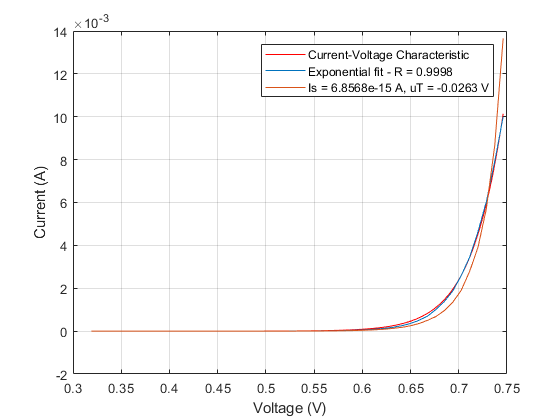
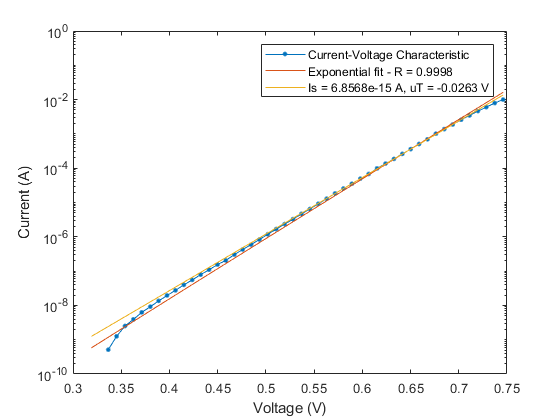
fixing Lab 2 plots

diff --git a/Lab 2/lab2.m b/Lab 2/lab2.m
@@ -3,10 +3,24 @@ load('Lab2Data.mat')
  spacingCurrent = logspace(-2, -9);
  spacingVoltage = linspace(0.7460, .3191);
 %% Voltage-Current Characteristic
-plot(Vin1b,Iin1b)
-xlabel('Current (A)')
-ylabel('Voltage (V)')
+
 t1 = exp(log(Is) + (Vin1b./uT));
+pa = polyfit(Vin1b,log(Iin1b),1);
+ya = polyval(pa,Vin1b);
+Is1 = exp(pa(1));
+uT1 = 1./pa(2);
+f = Is*exp(Vin1b./uT);
+f1 = Is1.*exp(Vin1b./uT);
+f2 = log(Is1) + -(1/uT).*Vin1b;
+semilogy(Vin1b,Iin1b,'Marker','.','MarkerSize',10)
+hold on
+semilogy(Vin1b,exp(ya))
+semilogy(Vin1b,f)
+%semilogy(Vin1b,exp(f2),'--')
+ylabel('Current (A)')
+xlabel('Voltage (V)')
+legend( 'Current-Voltage Characteristic', 'Exponential fit - R = 0.9998 ','Is = 6.8568e-15 A, uT = -0.0263 V', 'Location', 'NorthEast' );
+
 %%
 fit1(Vin1b, Iin1b,g)
 
@@ -26,7 +40,7 @@ g = ((1/m).*Vin1a) + b;
 % plot(Vin1a,g,'*')
 legend('Experimental','Is = 3.0681e-16, uT = -0.0307')
 xlabel('Voltage (V)')
-ylabel('Log of Current')
+ylabel('Current (A)')
 
 
 %% Semi-log of Voltage-current, current-voltage, and theoretical
@@ -38,12 +52,12 @@ Is = exp(b)
 f = Is*exp(-Vin1a./uT);
 g = (m.*Vin1a) + b;
 
-semilogy(Vin1a,Iin1a)
+semilogy(Vin1a,Iin1a,'Marker','.','MarkerSize',10)
 hold on
-semilogy(Vin1b,Iin1b)
+semilogy(Vin1b,Iin1b,'Marker','.','MarkerSize',10)
 semilogy(Vin1a,exp(g))
-xlabel('Current (A)')
-ylabel('Voltage (V)')
+ylabel('Current (A)')
+xlabel('Voltage (V)')
 legend('Current-Voltage Characteristic','Voltage-Current Characteristic','Is = 6.8568e-15 A, uT = 0.0623 V')
 
 %% loglog
@@ -58,10 +72,10 @@ ylabel('Incremental Diode Resistance (Ohms)')
  %% Exp. 2
 
 figure()
-plot(Vin2_100,Vout2_100);
+plot(Vin2_100,Vout2_100,'Marker','.','MarkerSize',10);
 hold on
-plot(Vin2_1000,Vout2_1000);
-plot(Vin2_10k,Vout2_10k);
+plot(Vin2_1000,Vout2_1000,'Marker','.','MarkerSize',10);
+plot(Vin2_10k,Vout2_10k,'Marker','.','MarkerSize',10);
 legend('100','1000','10000')
 
 

diff --git a/Lab 4/plot_set_up_exp2_exp3.m b/Lab 4/plot_set_up_exp2_exp3.m
@@ -2,22 +2,22 @@ load('') % .mat file
 %%
 clf
 
-loglog( , ,'Marker','.','MarkerSize',12) % Ix1, Iz1, Marker stuff - I found this looks pretty good
+loglog(Ix250 ,Iz250 ,'Marker','.','MarkerSize',12) % Ix1, Iz1, Marker stuff - I found this looks pretty good
 hold on
-loglog( , ,'Marker','.','MarkerSize',12) % Ix2, Iz2, Marker stuff - I found this looks pretty good
-loglog( , ,'Marker','.','MarkerSize',12) % Ix3, Iz3, Marker stuff - I found this looks pretty good
+loglog(Ix25k ,Iz25k ,'Marker','.','MarkerSize',12) % Ix2, Iz2, Marker stuff - I found this looks pretty good
+loglog(Ix2k ,Iz2k ,'Marker','.','MarkerSize',12) % Ix3, Iz3, Marker stuff - I found this looks pretty good
 xlabel('Log of Ix (A)')
 ylabel('Log of Iz (A)')
 
-legend('','','') % name them, probably something to do with each value of Iy
+legend('250','25k','2k') % name them, probably something to do with each value of Iy
 
 %%
 clf
 
-loglog( , ,'Marker','.','MarkerSize',12) % Iy1, Iz1, Marker stuff - I found this looks pretty good
+loglog(Ix250Si ,Iz250Si ,'Marker','.','MarkerSize',12) % Iy1, Iz1, Marker stuff - I found this looks pretty good
 hold on
-loglog( , ,'Marker','.','MarkerSize',12) % Iy2, Iz2, Marker stuff - I found this looks pretty good
-loglog( , ,'Marker','.','MarkerSize',12) % Iy3, Iz3, Marker stuff - I found this looks pretty good
+loglog(Ix25kSi ,Iz25kSi ,'Marker','.','MarkerSize',12) % Iy2, Iz2, Marker stuff - I found this looks pretty good
+loglog(Ix2kSi , Iz2kSi,'Marker','.','MarkerSize',12) % Iy3, Iz3, Marker stuff - I found this looks pretty good
 xlabel('Log of Iy (A)')
 ylabel('Log of Iz (A)')
 

diff --git a/Lab 2/lab2_Sabrina.m b/Lab 2/lab2_Sabrina.m
@@ -4,10 +4,10 @@ p1 = polyfit(Vin2_100(70:90),Vout2_100(70:90),1); %V1 is the x axis, I1 is the y
 y1 = polyval(p1,Vin2_100); % generates y values using the coefficents from polyfit
 
 figure()
-plot(Vin2_100,Vout2_100);
+plot(Vin2_100,Vout2_100,'Marker','.','MarkerSize',8);
 hold on
-plot(Vin2_1000,Vout2_1000);
-plot(Vin2_10k,Vout2_10k);
+plot(Vin2_1000,Vout2_1000,'Marker','.','MarkerSize',8);
+plot(Vin2_10k,Vout2_10k,'Marker','.','MarkerSize',8);
 plot(Vin2_100,y1, 'k--');
 legend('100 Ohm Resistor','1k Ohm Resistor','10k Ohm Resistor','Best fit line (m = 1.001)','Location','northwest')
 xlabel('Input Voltage (V)')
@@ -26,13 +26,13 @@ segment_Iin2_100 = log(Iin2_100(42:62));
 p2 = polyfit(segment_Vin2_100,segment_Iin2_100,1); %V1 is the x axis, I1 is the y axis, 1 gives us linear coefficients (y=mx+b so p1=[m b])
 y1 = polyval(p2,Vin2_100); % generates y values using the coefficents from polyfit
 %plot(segment_Vin2_100,y1,'m-') % plot the line of best fit (x axis is still our V1)
-
+jjj = p2(2) + p2(1).*Vin2_100;
 figure()
-semilogy(Vin2_100,Iin2_100);
+semilogy(Vin2_100,Iin2_100,'Marker','.','MarkerSize',8);
 hold on
-semilogy(Vin2_1000,Iin2_1000);
-semilogy(Vin2_10k,Iin2_10k);
-semilogy(Vin2_100,y1,'m-')
+semilogy(Vin2_1000,Iin2_1000,'Marker','.','MarkerSize',8);
+semilogy(Vin2_10k,Iin2_10k,'Marker','.','MarkerSize',8);
+semilogy(Vin2_100(6:end),exp(y1),'m-')
 legend('100','1000','10000')
 xlabel('Input Voltage (V)')
 ylabel('Input Current (log(A))')

diff --git a/Lab 2/fit1.m b/Lab 2/fit1.m
@@ -15,7 +15,7 @@ function [fitresult, gof] = fit1(Vin1b, Iin1b,g)
 
 
 %% Fit: 'fit1'.
-[xData, yData] = prepareCurveData( Vin1b, Iin1b );
+[xData, yData] = prepareCurveData( Vin1b, log(Iin1b) );
 
 % Set up fittype and options.
 ft = fittype( 'exp2' );
@@ -29,7 +29,7 @@ opts.StartPoint = [1.58222999690913e-06 5.27225566417519 0 5.27225566417519];
 
 % Plot fit with data.
 figure( 'Name', 'fit1' );
-plot( fitresult );
+plot( fitresult, 'o' );
 hold on
 plot(Vin1b,Iin1b)
 plot(Vin1b, exp(g));
